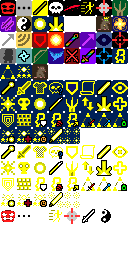
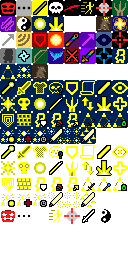
v3.0.0: Implement OmniSmite

Changed region(s): [[0.625, 0.75, 0.75, 0.8125], [0.625, 0.5, 0.75, 0.5625]]

diff --git a/core/src/main/java/com/zrp200/rkpd2/actors/hero/spells/Smite.java b/core/src/main/java/com/zrp200/rkpd2/actors/hero/spells/Smite.java
@@ -21,25 +21,32 @@
 
 package com.zrp200.rkpd2.actors.hero.spells;
 
+import static com.zrp200.rkpd2.Dungeon.hero;
+import static com.zrp200.rkpd2.Dungeon.level;
+
 import com.zrp200.rkpd2.Assets;
 import com.zrp200.rkpd2.Dungeon;
 import com.zrp200.rkpd2.actors.Actor;
 import com.zrp200.rkpd2.actors.Char;
 import com.zrp200.rkpd2.actors.buffs.Buff;
+import com.zrp200.rkpd2.actors.buffs.Combo;
 import com.zrp200.rkpd2.actors.buffs.FlavourBuff;
-import com.zrp200.rkpd2.actors.buffs.Invisibility;
 import com.zrp200.rkpd2.actors.hero.Hero;
 import com.zrp200.rkpd2.actors.hero.HeroSubClass;
 import com.zrp200.rkpd2.items.artifacts.HolyTome;
 import com.zrp200.rkpd2.items.weapon.Weapon;
 import com.zrp200.rkpd2.mechanics.Ballistica;
 import com.zrp200.rkpd2.messages.Messages;
+import com.zrp200.rkpd2.scenes.GameScene;
 import com.zrp200.rkpd2.ui.AttackIndicator;
 import com.zrp200.rkpd2.ui.HeroIcon;
+import com.zrp200.rkpd2.ui.RedButton;
 import com.zrp200.rkpd2.utils.GLog;
 import com.watabou.noosa.audio.Sample;
-import com.watabou.utils.Callback;
 import com.watabou.utils.Random;
+import com.zrp200.rkpd2.windows.WndTitledMessage;
+
+import java.util.HashMap;
 
 public class Smite extends TargetedClericSpell {
 
@@ -47,6 +54,12 @@ public class Smite extends TargetedClericSpell {
 
 	@Override
 	public int icon() {
+		if (Dungeon.hero != null) {
+			HolyTome tome = Dungeon.hero.belongings.getItem(HolyTome.class);
+			if (tome != null && tome.canCast(Dungeon.hero, new OmniSmite())) {
+				return HeroIcon.OMNISMITE;
+			}
+		}
 		return HeroIcon.SMITE;
 	}
 
@@ -73,60 +86,205 @@ public class Smite extends TargetedClericSpell {
 	}
 
 	@Override
+	public void onCast(HolyTome tome, Hero hero) {
+        if (tome.canCast(hero, new OmniSmite())) {
+            GameScene.show(new WndSmiteSelect(tome, hero));
+        }
+        else {
+            super.onCast(tome, hero);
+        }
+    }
+
+	@Override
 	protected void onTargetSelected(HolyTome tome, Hero hero, Integer target) {
 		if (target == null) {
 			return;
 		}
 
 		Char enemy = Actor.findChar(target);
-		if (enemy == null || enemy == hero){
+		if (enemy == null || enemy == hero) {
 			GLog.w(Messages.get(this, "no_target"));
 			return;
 		}
 
 		//we apply here because of projecting
 		SmiteTracker tracker = Buff.affect(hero, SmiteTracker.class);
-		if (hero.isCharmedBy(enemy) || !Dungeon.level.heroFOV[target] || !hero.canAttack(enemy)) {
+		if (hero.isCharmedBy(enemy) || !level.heroFOV[target] || !hero.canAttack(enemy)) {
 			GLog.w(Messages.get(this, "invalid_enemy"));
 			tracker.detach();
 			return;
 		}
-
-		hero.sprite.attack(enemy.pos, new Callback() {
-			@Override
-			public void call() {
-				AttackIndicator.target(enemy);
-
-				float accMult = 1;
-				if (!(hero.belongings.attackingWeapon() instanceof Weapon)
-						|| ((Weapon) hero.belongings.attackingWeapon()).STRReq() <= hero.STR()){
-					accMult = Char.INFINITE_ACCURACY;
-				}
-				if (hero.attack(enemy, 1, 0, accMult)){
-					Sample.INSTANCE.play(Assets.Sounds.HIT_STRONG);
-					enemy.sprite.burst(0xFFFFFFFF, 10);
-				}
-				tracker.detach();
-
-				Invisibility.dispel();
-
-				hero.spendAndNext(hero.attackDelay());
-				onSpellCast(tome, hero);
-			}
+		hero.sprite.attack(enemy.pos, () -> {
+			doSmite(tome, hero, enemy, 1);
+			tracker.detach();
+			hero.spendAndNext(hero.attackDelay());
 		});
-
 	}
 
-	public static int bonusDmg( Hero attacker, Char defender){
-		int min = 5 + attacker.lvl/2;
-		int max = 10 + attacker.lvl;
-		if (Char.hasProp(defender, Char.Property.UNDEAD) || Char.hasProp(defender, Char.Property.DEMONIC)){
-			return max;
-		} else {
-			return Random.NormalIntRange(min, max);
+	public void doSmite(HolyTome tome, Hero hero, Char enemy, float dmgMulti) {
+		AttackIndicator.target(enemy);
+
+		float accMult = 1;
+		if (!(hero.belongings.attackingWeapon() instanceof Weapon)
+				|| ((Weapon) hero.belongings.attackingWeapon()).STRReq() <= hero.STR()) {
+			accMult = Char.INFINITE_ACCURACY;
+		}
+		if (hero.attack(enemy, dmgMulti, 0, accMult)) {
+			Sample.INSTANCE.play(Assets.Sounds.HIT_STRONG);
+			enemy.sprite.burst(0xFFFFFFFF, (int)(10 * dmgMulti));
+		}
+
+		onSpellCast(tome, hero);
+	}
+
+	public static class SmiteTracker extends FlavourBuff {
+		public int bonusDmg( Hero attacker, Char defender){
+			int min = 5 + attacker.lvl/2;
+			int max = 10 + attacker.lvl;
+			if (Char.hasProp(defender, Char.Property.UNDEAD) || Char.hasProp(defender, Char.Property.DEMONIC)){
+				return max;
+			} else {
+				return Random.NormalIntRange(min, max);
+			}
+		}
+		public float enchMulti() {
+			return 3f;
+		}
+	};
+
+	public static class OmniSmite extends Smite {
+
+		// this is basically a fancy way of killing anything.
+		// todo revisit, it might be nice to have the last hit be a regular smite
+
+		private static int used = 0;
+
+		private static final float MIN_USES = 3;
+		public static final float MULTI = 0.75f;
+
+		@Override
+		public boolean canCast(Hero hero) {
+			return used > 0 ||
+					super.canCast(hero) && SpellEmpower.isActive();
+		}
+
+		private boolean forceCheckCharges = false;
+
+		@Override
+		public String desc() {
+			HolyTome tome = hero.belongings.getItem(HolyTome.class);
+			return Messages.get(this, "desc",
+					(int)Math.max(OmniSmite.MIN_USES, Math.max(tome.getCharges(), SpellEmpower.left())),
+					(int)SpellEmpower.left(),
+					Math.max(2, tome.getCharges())
+			);
+		}
+
+		@Override
+		public boolean ignoreChargeUse() {
+			return !forceCheckCharges && ((used > 0 && used < MIN_USES) || super.ignoreChargeUse());
+		}
+
+		@Override
+		public float chargeUse(Hero hero) {
+			return 1f;
+		}
+
+		@Override
+		public void onSpellCast(HolyTome tome, Hero hero) {
+			if (used >= 2 && SpellEmpower.isActive()) {
+				// refunds charge use if it's still attacking with no charges after breaking even with Smite's charge cost.
+				forceCheckCharges = true;
+				if (!tome.canCast(hero, this)) tome.directCharge(chargeUse(hero));
+				forceCheckCharges = false;
+			}
+			super.onSpellCast(tome, hero);
+		}
+
+		@Override
+		public void onCast(HolyTome tome, Hero hero) {
+			Buff.affect(hero, OmniSmiteTracker.class);
+			int range = (int)SpellEmpower.left();
+			try {
+				HashMap<Char, Integer> validTargets = new HashMap<>();
+				int minDist = Integer.MAX_VALUE;
+				for (Char m : level.mobs) {
+					int distance = level.distance(hero.pos, m.pos);
+					if (distance > minDist || m.alignment != Char.Alignment.ENEMY) continue;
+					int leapPos = Combo.Leap.findLeapPos(hero, m, range);
+					if (leapPos == -1) continue;
+					if (distance < minDist) {
+						validTargets.clear();
+						minDist = distance;
+					}
+					validTargets.put(m, leapPos);
+				}
+				Char target = Random.element(validTargets.keySet());
+				if (tome.canCast(hero, this) && target != null) {
+					Combo.Leap.execute(hero, target, validTargets.get(target), () -> {
+						used++;
+						doSmite(tome, hero, target, MULTI);
+						onCast(tome, hero);
+					});
+					return;
+				}
+				if (used > 0) {
+					used = 0;
+					SpellEmpower.useCharge(SpellEmpower.limit(), SpellEmpower.limit()); // use remaining charge
+					hero.spendAndNext(hero.attackDelay());
+				} else {
+					assert target == null;
+					GLog.w(Messages.get(this, "no_targets"));
+				}
+			} finally {
+				Buff.detach(hero, OmniSmiteTracker.class);
+			}
+		}
+
+		public static class OmniSmiteTracker extends SmiteTracker {
+			@Override
+			public int bonusDmg(Hero attacker, Char defender) {
+				return Random.round(MULTI * super.bonusDmg(attacker, defender));
+			}
+
+			@Override
+			public float enchMulti() {
+				return MULTI * super.enchMulti();
+			}
 		}
 	}
 
-	public static class SmiteTracker extends FlavourBuff {};
+	private class WndSmiteSelect extends WndTitledMessage {
+		// fixme should this just be a separate spell?
+
+		RedButton buttonFor(HolyTome tome, Hero hero, Smite smite) {
+			return new RedButton("_" + Messages.titleCase(smite.name()) + "_:\n" + smite.desc(), 6) {
+				{
+					multiline = true;
+				}
+
+				@Override
+				protected void onClick() {
+					hide();
+					smite.onCast(tome, hero);
+				}
+			};
+		}
+
+        WndSmiteSelect(HolyTome tome, Hero hero) {
+            super(new HeroIcon(Smite.this),
+                            "Smite", ""
+            );
+			RedButton
+					smite = buttonFor(tome, hero, Smite.this),
+					omniSmite = buttonFor(tome, hero, new OmniSmite());
+			omniSmite.setWidth(width);
+			omniSmite.setHeight(omniSmite.reqHeight());
+			smite.setWidth(width);
+			smite.setHeight(smite.reqHeight());
+			omniSmite.setY(smite.bottom() + GAP);
+            addToBottom(smite, omniSmite);
+        }
+    }
 
 }

diff --git a/core/src/main/java/com/zrp200/rkpd2/actors/hero/spells/SpellEmpower.java b/core/src/main/java/com/zrp200/rkpd2/actors/hero/spells/SpellEmpower.java
@@ -52,6 +52,11 @@ public abstract class SpellEmpower extends ClericSpell {
         );
     }
 
+    public static float left() {
+        Buff buff = hero.virtualBuff(Buff.class);
+        return buff != null ? buff.left() : 0;
+    }
+
     protected Talent talent;
 
     @Override
@@ -215,6 +220,10 @@ public abstract class SpellEmpower extends ClericSpell {
             type = buffType.POSITIVE;
         }
 
+        public float left() {
+            return limit() - count();
+        }
+
         @Override
         public abstract int icon();
 
@@ -227,7 +236,7 @@ public abstract class SpellEmpower extends ClericSpell {
 
         @Override
         public String iconTextDisplay() {
-            return String.valueOf((int)(limit() - count()));
+            return String.valueOf((int)left());
         }
 
         @Override
@@ -241,7 +250,7 @@ public abstract class SpellEmpower extends ClericSpell {
 
         @Override
         public void tintIcon(Image icon) {
-            icon.tint(0x808080);
+            icon.tint(0x80808080);
         }
     }
 }

diff --git a/core/src/main/java/com/zrp200/rkpd2/actors/hero/Hero.java b/core/src/main/java/com/zrp200/rkpd2/actors/hero/Hero.java
@@ -349,6 +349,7 @@ public class Hero extends Char {
 		HTBoost = bundle.getInt(HTBOOST);
 
 		super.restoreFromBundle( bundle );
+		restoring = this;
 
 		heroClass = bundle.getEnum( CLASS, HeroClass.class );
 		subClass = bundle.getEnum( SUBCLASS, HeroSubClass.class );
@@ -361,6 +362,8 @@ public class Hero extends Char {
 		STR = bundle.getInt( STRENGTH );
 
 		belongings.restoreFromBundle( bundle );
+
+		restoring = null;
 	}
 	
 	public static void preview( GamesInProgress.Info info, Bundle bundle ) {
@@ -1604,8 +1607,9 @@ public class Hero extends Char {
 					int dmg = subClass == HeroSubClass.PALADIN ? 6 : 2;
 					enemy.damage(Math.round(dmg * Weapon.Enchantment.genericProcChanceMultiplier(this)), HolyWeapon.INSTANCE);
 				}
-				if (buff(Smite.SmiteTracker.class) != null) {
-					enemy.damage(Smite.bonusDmg(this, enemy), Smite.INSTANCE);
+				Smite.SmiteTracker smiteTracker = virtualBuff(Smite.SmiteTracker.class);
+				if (smiteTracker != null) {
+					enemy.damage(smiteTracker.bonusDmg(this, enemy), Smite.INSTANCE);
 				}
 			}
 		}

diff --git a/core/src/main/java/com/zrp200/rkpd2/items/weapon/Weapon.java b/core/src/main/java/com/zrp200/rkpd2/items/weapon/Weapon.java
@@ -175,8 +175,8 @@ abstract public class Weapon extends KindOfWeapon {
 			}
 
 			if (attacker instanceof Hero && isEquipped((Hero) attacker) &&
-					attacker.buff(Smite.SmiteTracker.class) != null && !becameAlly){
-				defender.damage(Smite.bonusDmg((Hero) attacker, defender), Smite.INSTANCE);
+					attacker.virtualBuff(Smite.SmiteTracker.class) != null && !becameAlly){
+				defender.damage(attacker.virtualBuff(Smite.SmiteTracker.class).bonusDmg((Hero) attacker, defender), Smite.INSTANCE);
 			}
 		}
 		
@@ -583,8 +583,9 @@ abstract public class Weapon extends KindOfWeapon {
 				//attacker.buff(RunicBlade.RunicSlashTracker.class).detach();
 			}
 
-			if (attacker.buff(Smite.SmiteTracker.class) != null){
-				multi += 3f;
+
+			if (attacker.virtualBuff(Smite.SmiteTracker.class) != null){
+				multi += attacker.virtualBuff(Smite.SmiteTracker.class).enchMulti();
 			}
 
 			if (attacker.buff(ElementalStrike.DirectedPowerTracker.class) != null){

diff --git a/core/src/main/java/com/zrp200/rkpd2/ui/HeroIcon.java b/core/src/main/java/com/zrp200/rkpd2/ui/HeroIcon.java
@@ -105,7 +105,8 @@ public class HeroIcon extends Image {
 	public static final int STASIS          = 66;
 	public static final int
 			LIMIT_BREAK		= 67,
-			DIVINE_ADVENT 	= 68;
+			DIVINE_ADVENT 	= 68,
+			OMNISMITE		= 69;
 
 	//all cleric spells have a separate icon with no background for the action indicator
 	public static final int SPELL_ACTION_OFFSET      = 32;
